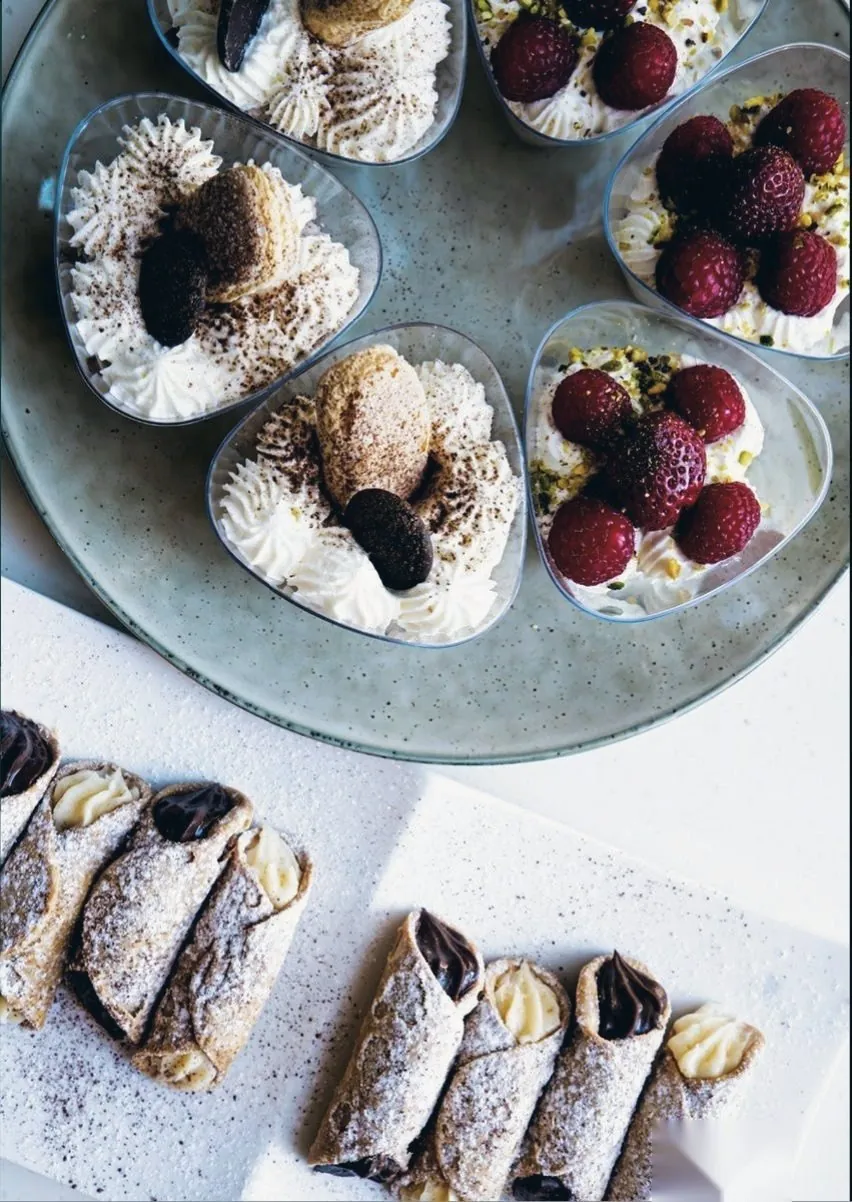
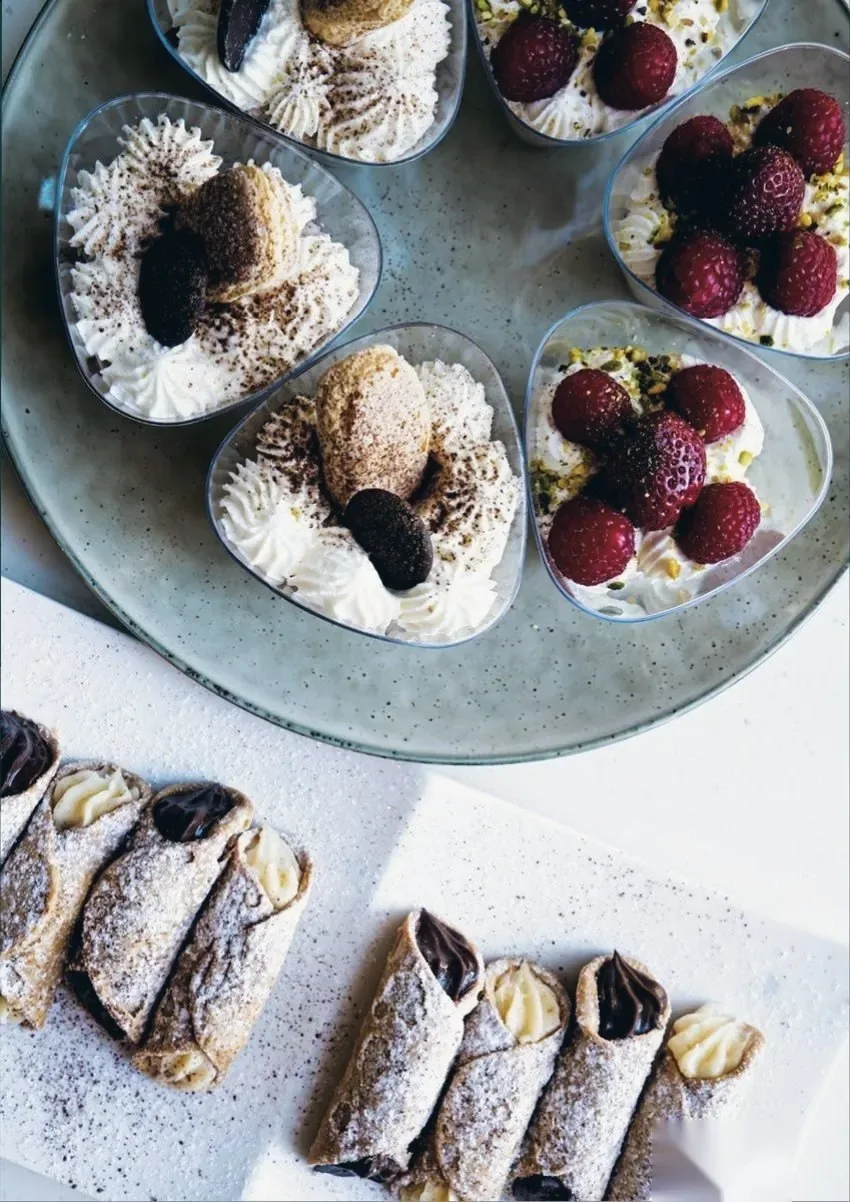
One hairline for every divider site-wide; dessert photo's baked-in dark edge cropped
Claude-Session: https://claude.ai/code/session_01JR2RLyNT2TUAEPKk2qpaK1

diff --git a/assets/style.css b/assets/style.css
@@ -124,8 +124,8 @@ nav#nav{position:absolute;top:42px;left:0;right:0;z-index:100;display:grid;grid-
 .sec-teal .lede{color:rgba(255,255,255,.82)}
 .rule{width:64px;height:1px;background:var(--line);margin:38px auto;opacity:1}
 /* SPLIT BAND - plain background panel + photo panel, alternating sides */
-.band{position:relative;display:grid;grid-template-columns:1fr 1fr;align-items:stretch;overflow:hidden;background:var(--cream)}
-.band>img.bg{position:relative;width:100%;height:100%;min-height:460px;max-height:640px;object-fit:cover;order:2}
+.band{position:relative;display:grid;grid-template-columns:1fr 1fr;align-items:stretch;overflow:hidden;background:var(--cream);border-top:1px solid var(--line);border-bottom:1px solid var(--line)}
+.band>img.bg{position:relative;width:100%;height:100%;min-height:460px;max-height:640px;object-fit:cover;order:2;display:block}
 .band .scrim-l,.band .scrim-r{display:none}
 .band .content{position:relative;order:1;z-index:auto;max-width:none;margin:0;width:100%;display:flex;align-items:center;padding:76px 64px}
 .band .copy{max-width:520px;margin:0 auto}
@@ -199,8 +199,7 @@ nav#nav{position:absolute;top:42px;left:0;right:0;z-index:100;display:grid;grid-
 .psum .pfact .fl{font-size:11px;letter-spacing:.14em;text-transform:uppercase;color:var(--steel);margin-top:4px;display:block}
 /* PRICING TABLE - two columns to one clean column on mobile */
 .ptable{max-width:980px;margin:0 auto;display:grid;grid-template-columns:1fr 1fr;gap:4px}
-.pcol{background:var(--white);border-top:1px solid var(--ink);box-shadow:none;border:1px solid var(--line);border-top:1px solid var(--ink)}
-.pcol.peak{border-top-color:var(--steel)}
+.pcol{background:var(--white);box-shadow:none;border:1px solid var(--line)}
 .pcol h3{font-family:var(--serif);font-size:2rem;font-weight:400;color:var(--ink);padding:34px 36px 4px}
 .pcol .season{font-size:12px;letter-spacing:.2em;text-transform:uppercase;color:var(--steel);padding:0 36px 22px;display:block}
 .pcol .prow{display:flex;justify-content:space-between;gap:18px;padding:15px 36px;border-top:1px solid var(--line);font-size:15px;font-weight:300;color:var(--mid)}
@@ -211,13 +210,12 @@ nav#nav{position:absolute;top:42px;left:0;right:0;z-index:100;display:grid;grid-
 .pcol .pfoot{padding:24px 36px 34px}
 /* RATES MINI (event pages) */
 .rates-mini{max-width:860px;margin:0 auto;display:grid;grid-template-columns:1fr 1fr;gap:4px;text-align:center}
-.rmini{background:var(--white);padding:38px 26px;border:1px solid var(--line);border-top:1px solid var(--ink)}
-.rmini.peak{border-top-color:var(--steel)}
+.rmini{background:var(--white);padding:38px 26px;border:1px solid var(--line)}
 .rmini .rl{font-size:12px;letter-spacing:.2em;text-transform:uppercase;color:var(--steel);display:block;margin-bottom:12px}
 .rmini .ra{font-family:var(--serif);font-size:2.8rem;font-weight:400;color:var(--ink);line-height:1}
 .rmini .rs{font-size:11px;letter-spacing:.14em;text-transform:uppercase;color:var(--steel);display:block;margin-top:10px}
 /* legacy stacked rates (kept for safety) */
-.rate{max-width:860px;margin:0 auto 3px;background:var(--white);padding:60px 56px;text-align:center;border-top:1px solid var(--ink)}
+.rate{max-width:860px;margin:0 auto 3px;background:var(--white);padding:60px 56px;text-align:center;border:1px solid var(--line)}
 .rate.dark{background:var(--teal);color:var(--white)}
 .rate h3{font-family:var(--serif);font-size:2rem;font-weight:400;color:var(--ink);margin-bottom:8px}
 .rate.dark h3{color:var(--white)}
@@ -488,7 +486,7 @@ details.f-col{}
 
 /* DIRECT LINE - floating contact card, bottom right (minimises to a chip; stays a chip on mobile) */
 .dl{position:fixed;right:clamp(16px,2.2vw,32px);bottom:clamp(16px,2.2vw,32px);z-index:90;font-family:var(--sans);color:var(--ink)}
-.dl__card{position:relative;width:340px;max-width:calc(100vw - 32px);background:var(--sky);border-top:2px solid var(--steel);padding:26px 26px 22px;box-shadow:0 18px 50px rgba(10,58,82,.18);opacity:0;transform:translateY(14px);transition:opacity .5s ease,transform .5s ease}
+.dl__card{position:relative;width:340px;max-width:calc(100vw - 32px);background:var(--sky);border:1px solid var(--line);padding:26px 26px 22px;box-shadow:0 18px 50px rgba(10,58,82,.18);opacity:0;transform:translateY(14px);transition:opacity .5s ease,transform .5s ease}
 .dl.is-in .dl__card{opacity:1;transform:none}
 .dl__x{position:absolute;top:8px;right:8px;width:36px;height:36px;border:0;background:transparent;color:var(--steel);font-size:22px;line-height:1;cursor:pointer}
 .dl__x:hover{color:var(--ink)}
@@ -664,7 +662,6 @@ p a:not(.btn),li a:not(.btn),.fine a{display:inline-block;padding:10px 0;margin:
 .menu-split .pcol{display:flex;flex-direction:column}
 .menu-split .pcol .pfoot{margin-top:auto}
 .fd-card-dessert img{aspect-ratio:3/2}
-.menu-split .pcol{border-top-color:var(--ink)}
 .menu-split .prow{align-items:flex-start;padding:18px 28px}
 .menu-split .prow small{display:block;font-size:13px;color:var(--steel);margin-top:4px;font-weight:300}
 .drink-grid{gap:2px;background:rgba(10,58,82,.1);border:1px solid var(--line)}

diff --git a/index.html b/index.html
@@ -20,7 +20,7 @@
 <link rel="preconnect" href="https://fonts.googleapis.com">
 <link rel="preconnect" href="https://fonts.gstatic.com" crossorigin>
 <link href="https://fonts.googleapis.com/css2?family=Figtree:wght@300;400;500&display=swap" rel="stylesheet">
-<link rel="stylesheet" href="assets/style.css?v=20261029p">
+<link rel="stylesheet" href="assets/style.css?v=20261029q">
 <script type="application/ld+json">{"@context": "https://schema.org", "@graph": [{"@type": "LocalBusiness", "@id": "https://bote-charters.mockups.studioloock.co/#business", "name": "Bote Charters", "description": "Luxury private boat charters for parties, corporate events and celebrations across Brisbane, the Gold Coast and Moreton Bay aboard an 80ft Italian motor yacht for up to 60 guests.", "url": "https://bote-charters.mockups.studioloock.co/", "telephone": "+61 413 404 518", "email": "charter@bote.au", "image": "https://bote-charters.mockups.studioloock.co/assets/img/botedeck.webp", "logo": "https://bote-charters.mockups.studioloock.co/assets/img/botelogo.png", "priceRange": "$$$$", "address": {"@type": "PostalAddress", "addressLocality": "Brisbane", "addressRegion": "QLD", "addressCountry": "AU"}, "areaServed": [{"@type": "City", "name": "Brisbane"}, {"@type": "City", "name": "Gold Coast"}, {"@type": "Place", "name": "Moreton Bay"}], "sameAs": ["https://www.facebook.com/profile.php?id=61578392492154", "https://www.instagram.com/bote_charters"]}, {"@type": "WebSite", "name": "Bote Charters", "url": "https://bote-charters.mockups.studioloock.co/"}]}</script>
 </head>
 <body>
